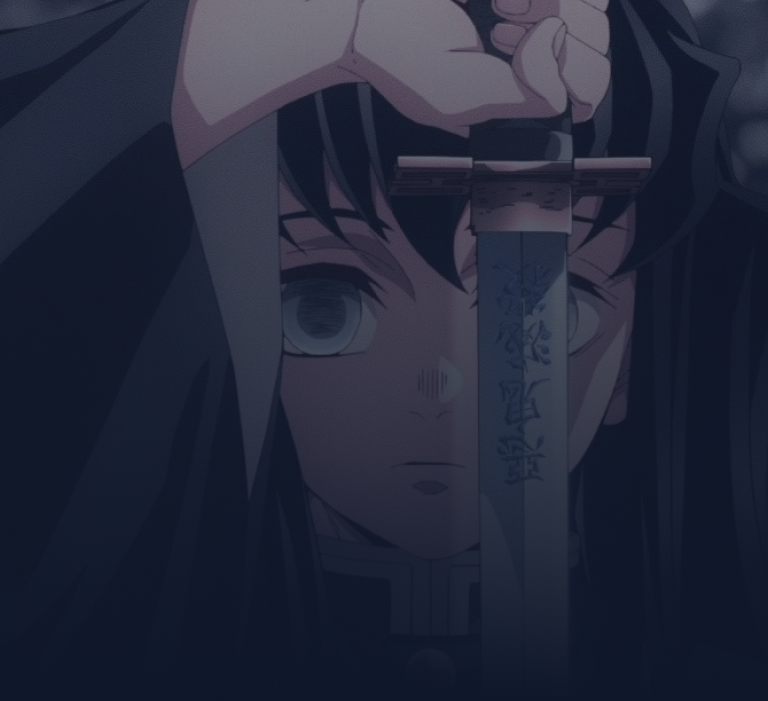
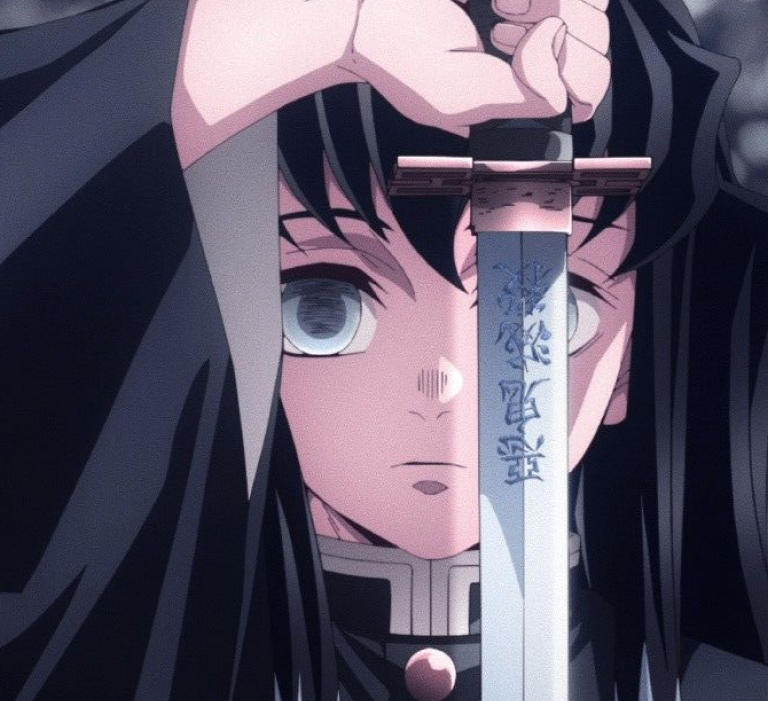
optimizing images for faster load time

diff --git a/app/Components/HomepageComponents/Banner.tsx b/app/Components/HomepageComponents/Banner.tsx
@@ -53,7 +53,7 @@ const Banner = () => {
             bulletClass: "bullet",
             bulletActiveClass: "active-bullet",
           }}
-          loop={true}
+      
           slidesPerView={1}
           onSlideChange={(slide) => {
             setActiveSlide(slide.realIndex);
@@ -66,7 +66,8 @@ const Banner = () => {
           {heroSectionData.map((slide: BannerSlide) => (
             <SwiperSlide key={slide.mal_id}>
               <div className="relative w-screen h-[26.5625rem] tablet:h-[43.8125rem]">
-                <div className="absolute z-0 w-full h-full ">
+                <div className="banner-overlay absolute top-0 left-0 bottom-0 right-0 bg-banner-overlay z-[1]"></div>
+                <div className="absolute z-0 w-full h-full">
                   <Image
                     src={
                       screenSize === "mobile"
@@ -76,10 +77,10 @@ const Banner = () => {
                         : slide.imagePathDesktop
                     }
                     alt="banner-image"
-                    fill
+                    width={1040}
+                    height={506}
+                    className="w-full h-auto object-cover object-bottom"
                     quality={100}
-                    className="object-cover object-bottom"
-                    priority={true}
                   />
                 </div>
               </div>

diff --git a/app/Components/HomepageComponents/FeaturedAnime.tsx b/app/Components/HomepageComponents/FeaturedAnime.tsx
@@ -38,7 +38,7 @@ const FeaturedAnime = () => {
     return (
         <div className='featured px-6 pb-16 relative tablet:px-8 desktop:px-16'>
             <div className={`overflow-hidden relative featured-image w-full h-[25.96875rem] rounded-3xl tablet:h-[42.25rem] desktop:h-[42.1875rem]`}>
-                <Image src={featuredImage[screenSize as keyof typeof featuredImage]} alt="featured-image" fill className="object-cover" priority={true} quality={100} />
+                <Image src={featuredImage[screenSize as keyof typeof featuredImage]} alt="featured-image" fill sizes="calc(97.04vw - 39px)" className="object-cover" quality={100} />
 
                 <div className='absolute left-6 bottom-6 z-100 context tablet:left-16 tablet:bottom-16'>
                     <h1 className='text-accent text-2xl font-bold w-48 leading-6 mb-4 tablet:text-6xl tablet:w-[29.625rem]'>Frieren: Beyond Journey’s End</h1>

diff --git a/app/Components/HomepageComponents/CardList.tsx b/app/Components/HomepageComponents/CardList.tsx
@@ -1,7 +1,7 @@
 import TitleControl from './CardListComponents/TitleControl'
 import CardCarousel from './CardListComponents/CardCarousel'
 import Card from './CardListComponents/Card'
-import { AnimeData, Batch, Pagination } from '@/app/Types/BatchData'
+import { AnimeData, Batch } from '@/app/Types/BatchData'
 import { FetchAnime } from '@/app/Utilities/FetchAnime'
 
 interface Props {
@@ -24,7 +24,7 @@ const CardList:React.FC<Props> = async ({ endpoint, prevEl, nextEl, title, type,
         <TitleControl title={title} nextEl={nextEl} prevEl={prevEl}/>
         <CardCarousel nextEl={nextEl} prevEl={prevEl} >
           {
-            data?.map((anime: AnimeData) => 
+            data.map((anime: AnimeData) => 
               <a key={anime.mal_id} href={`${type}/${anime.mal_id}`}>
                 <Card 
                   imageUrl={anime.images.jpg.image_url}

diff --git a/app/Components/HomepageComponents/CardListComponents/Card.tsx b/app/Components/HomepageComponents/CardListComponents/Card.tsx
@@ -15,7 +15,7 @@ const Card:React.FC<Props> = async ({ imageUrl, animeTitleEnglish, animeTitleJap
   return (
       <div className="carousel-item card relative w-[6.63563rem] tablet:w-56">
         <div className="relative image w-full h-[9.39063rem] rounded-[0.47rem] mb-[0.47rem] tablet:h-[19.8125rem] overflow-hidden">
-          <Image src={imageUrl} alt="anime-poster" fill className="object-cover" sizes="100%" priority={true} quality={100}/>
+          <Image src={imageUrl} alt="anime-poster" fill className="object-cover" sizes="(min-width: 780px) 224px, 106px"/>
         </div>
           <div className="anime-content">
             <h3 className="text-white text-[12px] leading-[12px] font-semibold mb-[0.3555rem] tablet:mb-3 tablet:text-lg tablet:!leading-5">{animeTitleEnglish}</h3>

diff --git a/app/Components/SearchPageComponents/SearchPage.tsx b/app/Components/SearchPageComponents/SearchPage.tsx
@@ -242,7 +242,9 @@ const SearchPage:React.FC<Props> = ({ params }) => {
   
   return (
     <div className="relative z-0 h-fit">
+      
       <div className="absolute z-0 background-image w-full h-[43.8125rem] bg-darker-blue">
+      <div className="banner-overlay absolute top-0 left-0 bottom-0 right-0 bg-banner-overlay z-[1]"></div>
         <Image
           src={
             screenSize === "mobile"

diff --git a/tailwind.config.ts b/tailwind.config.ts
@@ -18,7 +18,8 @@ const config: Config = {
 
       },
       backgroundImage: {
-        "preview-overlay": "var(--preview-overlay)"
+        "preview-overlay": "var(--preview-overlay)",
+        "banner-overlay": "var(--banner-overlay)"
       },
       fontSize: {
         "nav-logo-text": "var(--nav-logo-text)",

diff --git a/app/globals.css b/app/globals.css
@@ -19,6 +19,7 @@ html {
     --dark-blue: #1E293B;
     --darker-blue: #0F172A;
     --preview-overlay: linear-gradient(270deg, rgba(31, 41, 55, 0.00) 10.5%, #0F172A 90.91%);
+    --banner-overlay: linear-gradient(180deg, rgba(31, 41, 55, 0.00)-134.3%, #0F172A 100%);
 
     scroll-padding: 0;
 

diff --git a/app/Components/SearchPageComponents/PaginationControl.tsx b/app/Components/SearchPageComponents/PaginationControl.tsx
@@ -9,7 +9,7 @@ const PaginationControl = ({ paginationData, isLoading }: {paginationData: Pagin
   const upPage = () => {
     
     if(paginationData.has_next_page){
-      
+      window.scrollTo(0, 0)
       setIsLoading(true)
       setPageCount(prevState => prevState + 1)
     }

diff --git a/app/search/[type]/loading.tsx b/app/search/[type]/loading.tsx
@@ -17,7 +17,7 @@ const loading = () => {
         </div>
       </div>
     </> 
-  )
+  )  
 }
 
 export default loading
